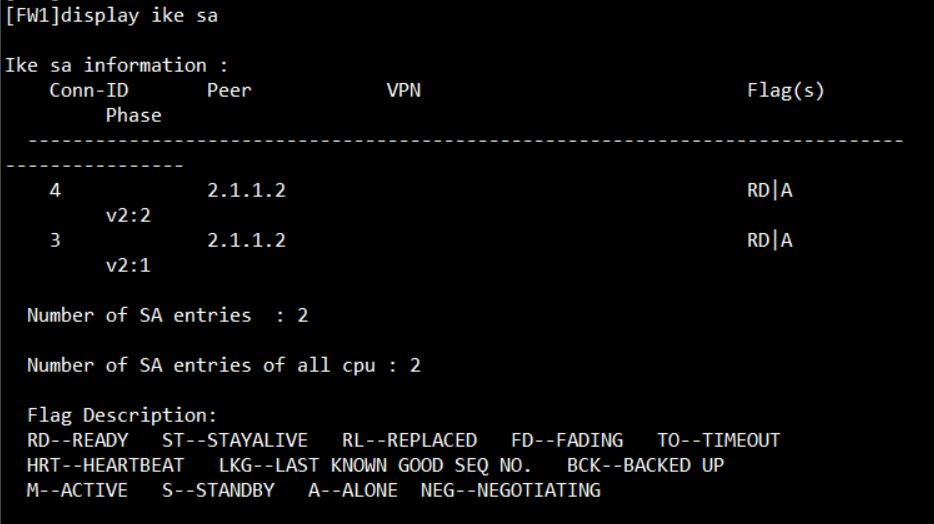
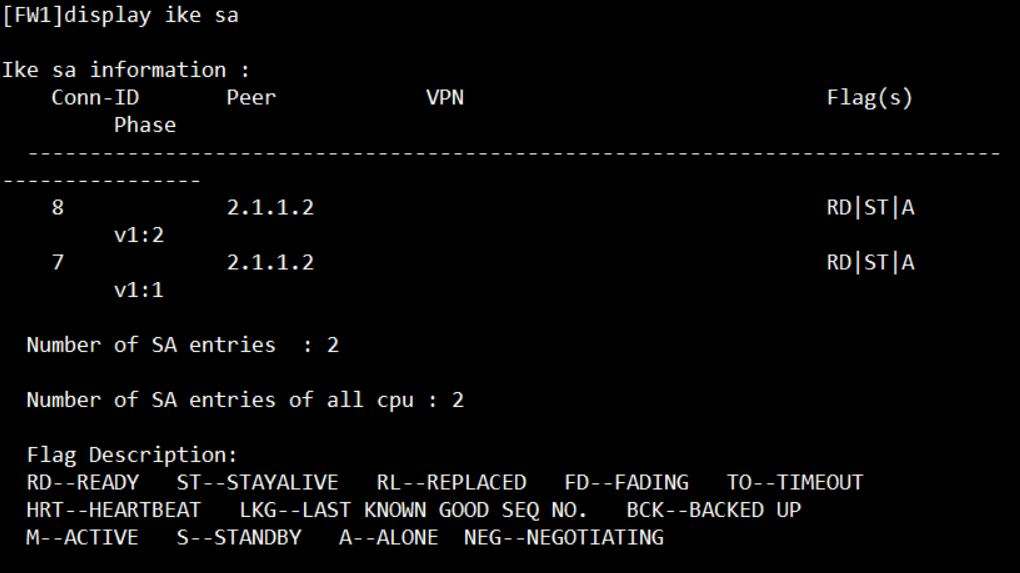
Site updated: 2020-04-21 19:48:29

diff --git a/2020/04/21/ipsec-de-pei-zhi/index.html b/2020/04/21/ipsec-de-pei-zhi/index.html
@@ -409,7 +409,7 @@
                 
                 <div class="info-break-policy">
                     <i class="far fa-file-word fa-fw"></i>文章字数:&nbsp;&nbsp;
-                    596
+                    602
                 </div>
                 
 
@@ -453,8 +453,8 @@
 <td><strong>3.配置IKE安全提议</strong><br>ike proposal 1<br> encryption-algorithm aes-256<br> dh group14<br> authentication-algorithm sha2-256<br> authentication-method pre-share<br> integrity-algorithm hmac-sha2-256<br> prf hmac-sha2-256</td>
 </tr>
 <tr>
-<td><strong>4.配置IKE peer</strong><br>ike peer FW2<br> pre-shared-key 123456<br> ike-proposal 1<br> remote-address 2.1.1.2</td>
-<td><strong>4.配置IKE peer</strong><br>ike peer FW1<br> pre-shared-key 123456<br> ike-proposal 1<br> remote-address 1.1.1.1</td>
+<td><strong>4.配置IKE peer</strong><br>ike peer FW2<br> undo version 2<br> pre-shared-key 123456<br> ike-proposal 1<br> remote-address 2.1.1.2</td>
+<td><strong>4.配置IKE peer</strong><br>ike peer FW1<br> undo version 2<br> pre-shared-key 123456<br> ike-proposal 1<br> remote-address 1.1.1.1</td>
 </tr>
 <tr>
 <td><strong>5.配置IPSec策略</strong><br>ipsec policy ipsec_policy 1 isakmp<br> security acl 3000<br> ike-peer FW2<br> proposal ipsec_p1</td>
